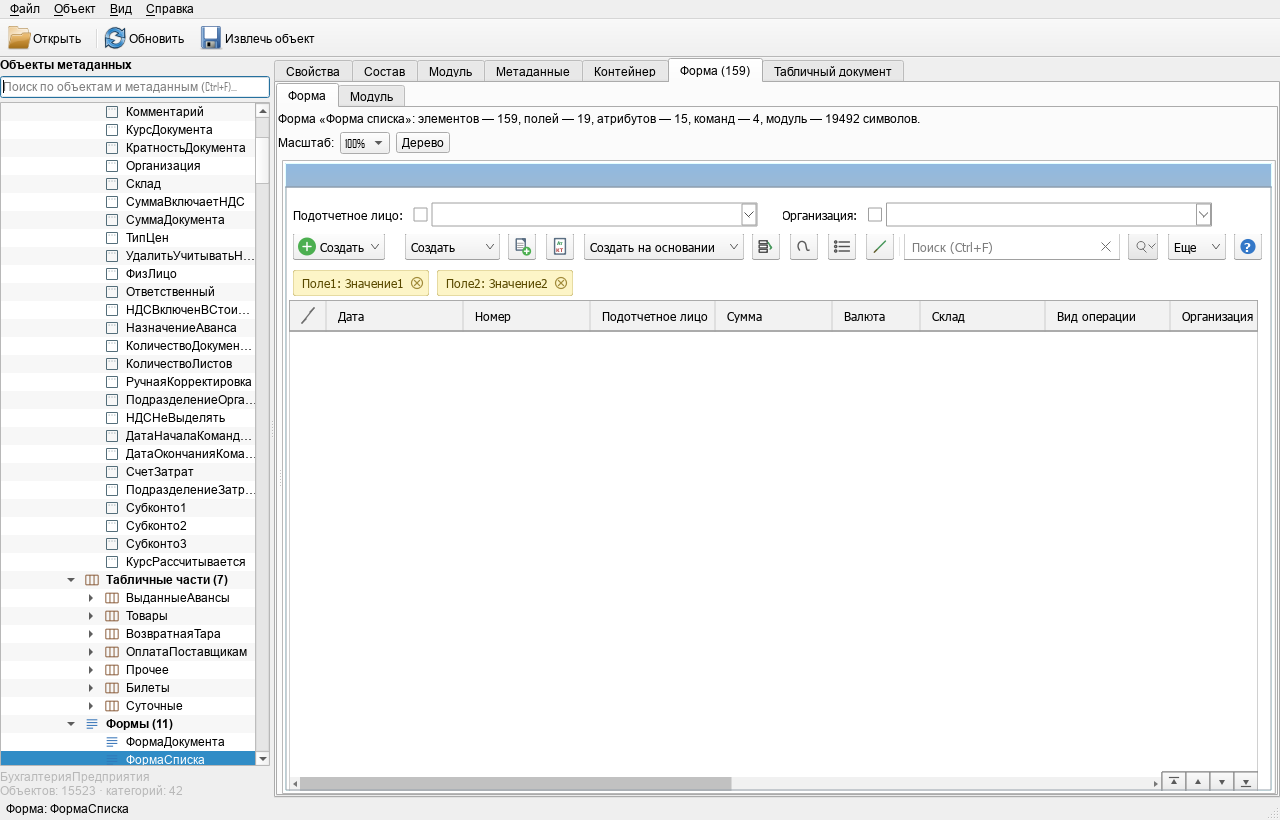
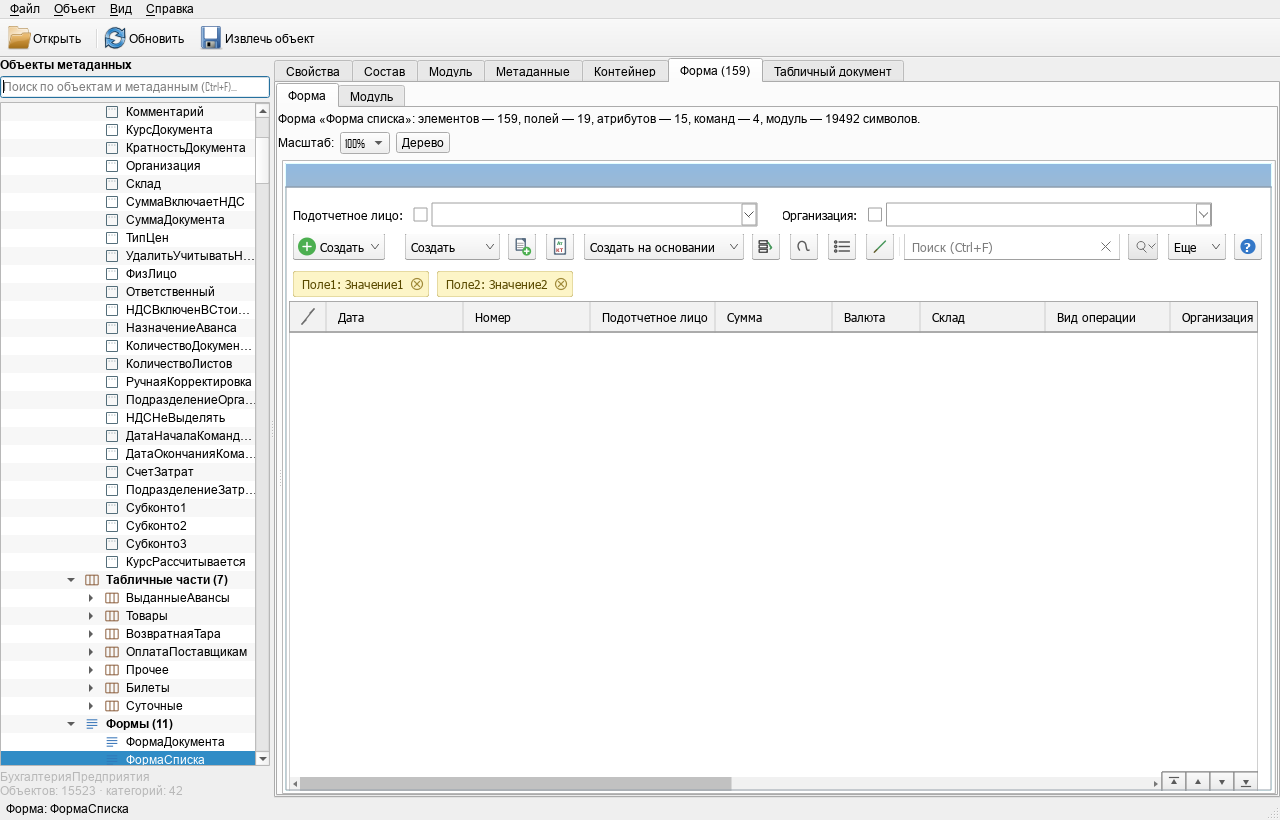
fix(forms): шапка таблицы выровнена на 1 px

diff --git a/src/gui/FormView.cpp b/src/gui/FormView.cpp
@@ -1312,6 +1312,8 @@ private:
             tableTop += 30.0;
             tableHeight = std::max(80.0, tableHeight - 30.0);
         }
+        if (m_document.runtimeListCommands)
+            tableTop += 1.0;
         control.rect = QRectF(rect.left() - 4.0, tableTop,
                               std::max(1.0, rect.width() - 2.0),
                               std::min(std::max(0.0, rect.height() - (tableTop - rect.top())),

diff --git a/CHANGELOG.md b/CHANGELOG.md
@@ -142,6 +142,8 @@
   разница — 7,76.
 - Длина бегунка горизонтальной прокрутки подогнана под эталон; средняя
   разница — 7,64.
+- Таблица опущена на 1 px: линии шапки и текста совпали с эталоном,
+  средняя разница — 7,39.
 - В формах элементов справочников добавлены стандартные команды
   «Записать и закрыть» и «Записать»; командная панель таких форм
   определяется и без отдельной группы кнопок.
